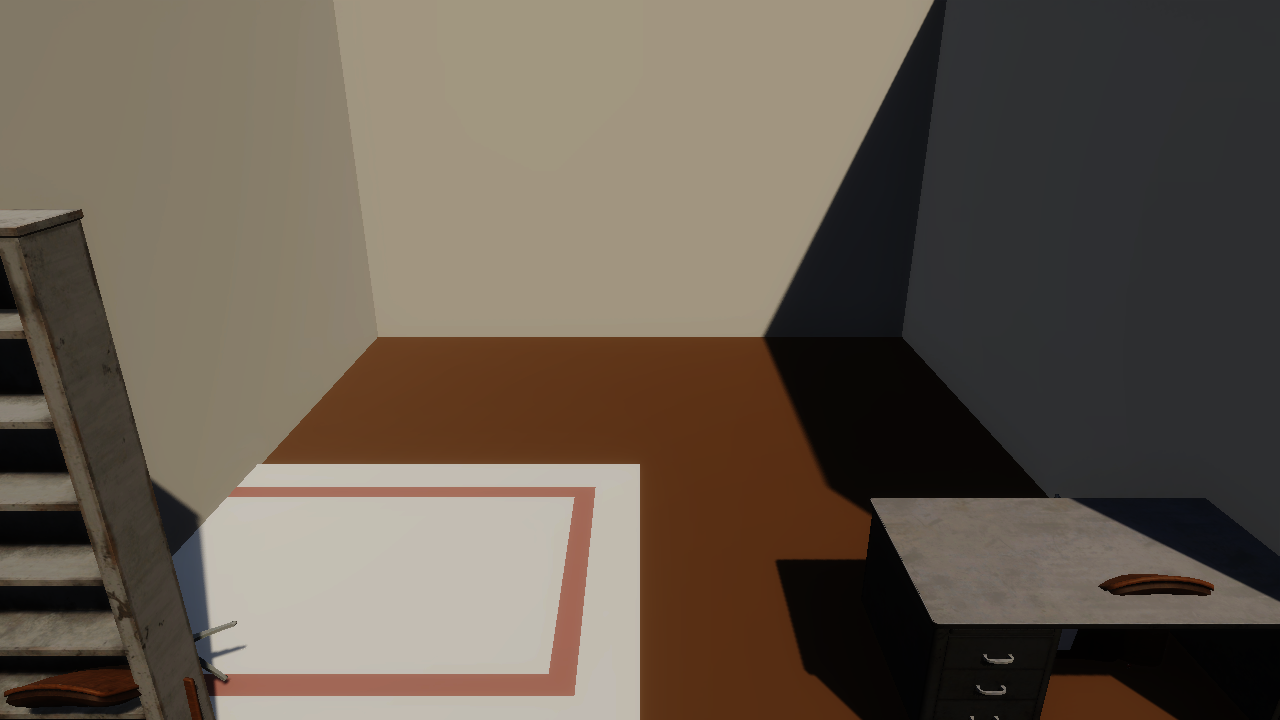
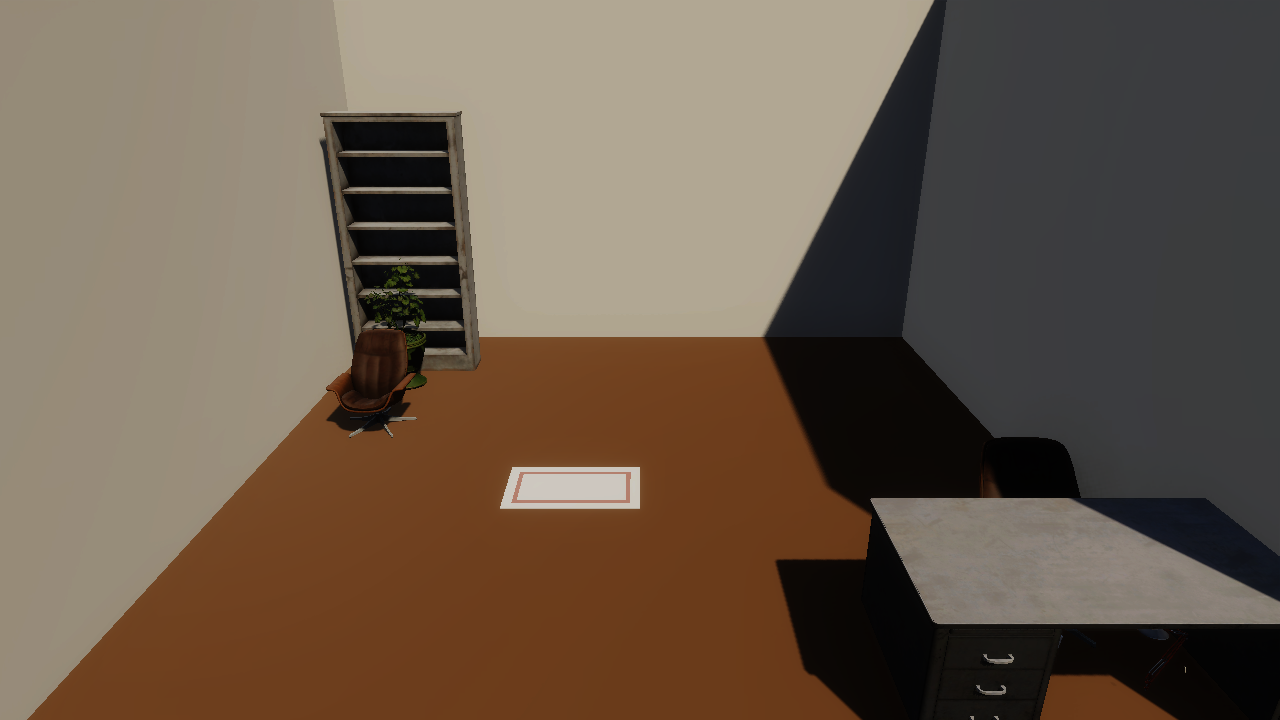
fix(paper03): §4.3 그림 7~12 자산 회전/스케일 정합 — 3R per-asset 보정 + plant 자산 교체 + figure 6매 재측정

diff --git a/SplatForge-UnityClient/Assets/SplatForge/Editor/Paper03/Paper03Runner.cs b/SplatForge-UnityClient/Assets/SplatForge/Editor/Paper03/Paper03Runner.cs
@@ -82,7 +82,7 @@ namespace SplatForge.EditorPaper03
             { "chair_01",       "mid_century_lounge_chair" },
             { "lamp_01",        "desk_lamp_arm_01" },
             { "bookshelf_01",   "Shelf_01" },
-            { "plant_01",       "nettle_plant" },
+            { "plant_01",       "potted_plant_01" },
             { "sofa_01",        "Sofa_01" },
             { "table_01",       "coffee_table_round_01" },
             { "cabinet_01",     "modern_wooden_cabinet" },
@@ -91,22 +91,172 @@ namespace SplatForge.EditorPaper03
         };
 
         // Per-asset 회전 보정 (Euler X,Y,Z degrees, world space).
-        // FBX inspector (Tools/Inspect FBX Bounds) 로 측정한 자연 bounds 결과:
-        //   bookshelf_01: Y=0.26, Z=2.08 → 누워서 임포트. +90° X 로 세움.
-        //   plant_01    : X=1.08, Y=0.22 → 누움. +90° Z 로 세움.
-        //   cabinet_01  : X=2.44, Y=0.68 → 누움. +90° X 로 세움.
-        //   nightstand_01: Y=0.42, Z=0.70 → 가벼운 누움. +90° X 로 세움.
-        //   table_01    : Y=1.30 (Z=0.49) → 세워져 있어 보이지만 round table 의 회전축
-        //                  이 천장을 향한 형태 (typical FBX). +90° X 로 눕혀 정상 테이블.
-        //   bed_01, chair_01, lamp_01, sofa_01, wardrobe_01, monitor_01, tv_01, rug_01, desk_01
-        //   는 자연 Y 축이 정상 — 보정 불필요.
+        // 2026-05-07 (R2 vision diagnostic 후): Alfred Opus 4.7 시각 검토 기반 갱신.
+        //   bookshelf_01: 유지 (90,0,0) — 정상 세워짐.
+        //   plant_01    : 제거 — potted_plant_01 (Y-up 자연, scale 자연 1.4m).
+        //   cabinet_01  : (90,0,0) → (0,0,0) — 90° X 가 오히려 눕힘. 원본 그대로.
+        //   nightstand_01: 유지 (90,0,0) — 시각 정상.
+        //   table_01    : 유지 (90,0,0) — round table 정상.
+        //   bed_01      : 신규 (90,0,0) — 벽처럼 수직 → 눕힘.
+        //   chair_01    : R2 (90,0,0) — R1 -90X 가 거꾸로 뒤집음 → 180° 보정.
+        //   sofa_01     : 신규 (90,0,0) — 등받이 위로 향함 → 세움.
         static readonly Dictionary<string, Vector3> AxisFix = new Dictionary<string, Vector3> {
             { "bookshelf_01",  new Vector3( 90f, 0f, 0f) },
-            { "plant_01",      new Vector3(  0f, 0f, 90f) },
-            { "cabinet_01",    new Vector3( 90f, 0f, 0f) },
             { "nightstand_01", new Vector3( 90f, 0f, 0f) },
             { "table_01",      new Vector3( 90f, 0f, 0f) },
+            { "bed_01",        new Vector3( 90f, 0f, 0f) },
+            { "chair_01",      new Vector3( 90f, 0f, 0f) },
+            { "sofa_01",       new Vector3( 90f, 0f, 0f) },
         };
+
+        // Per-asset 스케일 보정 (R2 진단 후 추가). instantiate 직후, ground-snap 전에 적용.
+        // bounds 측정이 스케일된 결과 사용하도록 순서가 중요하다.
+        //   plant_01 : 제거 — potted_plant_01 자연 높이 1.4m 사용.
+        //   monitor_01: bounds 3.93m → ~0.7m 으로 축소 (0.18배).
+        //   rug_01   : bounds 15.7m → ~3.5m 으로 축소 (0.22배).
+        //   cabinet_01: R2 0.5배 — 너무 넓음 (~4m → ~2m).
+        static readonly Dictionary<string, float> ASSET_SCALES = new Dictionary<string, float> {
+            { "monitor_01", 0.18f },
+            { "rug_01",     0.22f },
+            { "cabinet_01", 0.5f  },
+        };
+
+        // ====================================================================
+        // RunSingleAsset — 자산 격리 렌더 (디버깅용, 2026-04-29 추가)
+        //   목적: 회전·시각 문제를 자산별 1매 PNG 로 진단.
+        //   동일한 룸/조명/HDRP 설정을 유지하되 자산은 origin (0,0,0) 1개만 배치.
+        //   카메라는 자산 영웅샷용으로 더 가까이 (1.5, 1.5, -2.5) FOV 35.
+        // ====================================================================
+        public static void RunSingleAsset()
+        {
+            string assetName = GetArg("-asset");
+            string outputPath = GetArg("-output");
+            if (string.IsNullOrEmpty(assetName) || string.IsNullOrEmpty(outputPath))
+            {
+                Debug.LogError("[Paper03/Iso] missing -asset or -output");
+                EditorApplication.Exit(2);
+                return;
+            }
+            Directory.CreateDirectory(Path.GetDirectoryName(outputPath));
+
+            var scene = EditorSceneManager.NewScene(NewSceneSetup.EmptyScene, NewSceneMode.Single);
+            SetupHdrpVolume();
+
+            // 룸: 4×4 바닥 + 3 벽 (full mode 와 동일).
+            const float ROOM_W = 4f, ROOM_D = 4f, WALL_H = 2.5f, WALL_T = 0.05f;
+
+            var floor = GameObject.CreatePrimitive(PrimitiveType.Cube);
+            floor.name = "Floor";
+            floor.transform.localScale = new Vector3(ROOM_W, 0.05f, ROOM_D);
+            floor.transform.position = new Vector3(0, -0.025f, 0);
+            var floorMat = MakePlainHdrpLit(new Color(0.55f, 0.42f, 0.30f), 0.30f, 0.0f);
+            floor.GetComponent<Renderer>().sharedMaterial = floorMat;
+
+            var wallMat = MakePlainHdrpLit(new Color(0.94f, 0.93f, 0.90f), 0.10f, 0.0f);
+            var backWall = GameObject.CreatePrimitive(PrimitiveType.Cube);
+            backWall.name = "BackWall";
+            backWall.transform.localScale = new Vector3(ROOM_W, WALL_H, WALL_T);
+            backWall.transform.position = new Vector3(0, WALL_H * 0.5f, ROOM_D * 0.5f);
+            backWall.GetComponent<Renderer>().sharedMaterial = wallMat;
+
+            var leftWall = GameObject.CreatePrimitive(PrimitiveType.Cube);
+            leftWall.name = "LeftWall";
+            leftWall.transform.localScale = new Vector3(WALL_T, WALL_H, ROOM_D);
+            leftWall.transform.position = new Vector3(-ROOM_W * 0.5f, WALL_H * 0.5f, 0);
+            leftWall.GetComponent<Renderer>().sharedMaterial = wallMat;
+
+            var rightWall = GameObject.CreatePrimitive(PrimitiveType.Cube);
+            rightWall.name = "RightWall";
+            rightWall.transform.localScale = new Vector3(WALL_T, WALL_H, ROOM_D);
+            rightWall.transform.position = new Vector3(ROOM_W * 0.5f, WALL_H * 0.5f, 0);
+            rightWall.GetComponent<Renderer>().sharedMaterial = wallMat;
+
+            // 조명 — full mode 와 동일 Sun + Fill.
+            var sunGo = new GameObject("Sun");
+            var sun = sunGo.AddComponent<Light>();
+            sun.type = LightType.Directional;
+            sun.color = new Color(1.0f, 0.97f, 0.93f);
+            sunGo.transform.rotation = Quaternion.Euler(50f, -30f, 0f);
+            var hdSun = sunGo.AddComponent<HDAdditionalLightData>();
+            hdSun.intensity = 30000f;
+            hdSun.lightUnit = LightUnit.Lux;
+            hdSun.SetShadowResolution(2048);
+            hdSun.EnableShadows(true);
+
+            var fillGo = new GameObject("Fill");
+            var fill = fillGo.AddComponent<Light>();
+            fill.type = LightType.Directional;
+            fill.color = new Color(0.85f, 0.90f, 1.0f);
+            fillGo.transform.rotation = Quaternion.Euler(30f, 150f, 0f);
+            var hdFill = fillGo.AddComponent<HDAdditionalLightData>();
+            hdFill.intensity = 8000f;
+            hdFill.lightUnit = LightUnit.Lux;
+            hdFill.EnableShadows(false);
+
+            // 카메라 — 영웅샷 (자산 클로즈업).
+            var camGo = new GameObject("Cam");
+            var cam = camGo.AddComponent<Camera>();
+            cam.clearFlags = CameraClearFlags.Skybox;
+            cam.fieldOfView = 35f;
+            cam.nearClipPlane = 0.05f;
+            camGo.transform.position = new Vector3(1.5f, 1.5f, -2.5f);
+            camGo.transform.LookAt(new Vector3(0f, 0.5f, 0f));
+            camGo.AddComponent<HDAdditionalCameraData>();
+
+            // 자산 1개 인스턴스 — origin 배치, FitToBounds 생략 (원본 스케일 유지).
+            string resPath = "MockAssets/" + assetName;
+            var prefab = Resources.Load<GameObject>(resPath);
+            string diag = "";
+            GameObject go = null;
+            if (prefab == null)
+            {
+                Debug.LogError($"[Paper03/Iso] asset not found: {resPath}");
+                // 자산 없으면 fallback cube 로 진행 (PNG 는 생성).
+                go = GameObject.CreatePrimitive(PrimitiveType.Cube);
+                go.transform.localScale = new Vector3(0.6f, 0.6f, 0.6f);
+                var fm = MakePlainHdrpLit(new Color(0.8f, 0.2f, 0.2f), 0.25f, 0.0f);
+                go.GetComponent<Renderer>().sharedMaterial = fm;
+                diag = "asset_missing;";
+            }
+            else
+            {
+                go = UnityEngine.Object.Instantiate(prefab);
+                go.transform.rotation = Quaternion.identity;
+
+                // AxisFix 적용 (full mode 와 동일).
+                if (AxisFix.TryGetValue(assetName, out var fix))
+                {
+                    go.transform.Rotate(fix.x, fix.y, fix.z, Space.World);
+                    diag += "axisfix;";
+                }
+
+                // ASSET_SCALES 적용 — ground-snap 전에 수행해야 bounds 가 정확.
+                if (ASSET_SCALES.TryGetValue(assetName, out var scl))
+                {
+                    go.transform.localScale *= scl;
+                    diag += $"scale:{scl};";
+                }
+
+                ApplyHdrpPbr(go, assetName, ref diag);
+            }
+            go.name = assetName;
+
+            // origin 배치 + ground-snap (Renderer.bounds.min.y = 0).
+            go.transform.position = Vector3.zero;
+            var rb = ComputeRendererBounds(go);
+            float dy = -rb.min.y;
+            go.transform.position += new Vector3(0f, dy, 0f);
+
+            Physics.SyncTransforms();
+
+            // 디버그 정보 — bounds 측정 후 Console 에 dump.
+            var rbAfter = ComputeRendererBounds(go);
+            Debug.Log($"[Paper03/Iso] asset={assetName} pos=({go.transform.position.x:F3},{go.transform.position.y:F3},{go.transform.position.z:F3}) bounds_size=({rbAfter.size.x:F3},{rbAfter.size.y:F3},{rbAfter.size.z:F3}) bounds_min=({rbAfter.min.x:F3},{rbAfter.min.y:F3},{rbAfter.min.z:F3}) diag={diag}");
+
+            CaptureCamera(cam, outputPath, 1280, 720);
+            Debug.Log($"[Paper03/Iso] DONE asset={assetName} png={outputPath}");
+            EditorApplication.Exit(0);
+        }
 
         public static void Run()
         {
@@ -243,6 +393,14 @@ namespace SplatForge.EditorPaper03
                             go.transform.Rotate(fix.x, fix.y, fix.z, Space.World);
                             diag += "override_axis;";
                             FitToBounds(go, size);
+                        }
+
+                        // ASSET_SCALES — FitToBounds 후 적용 (FitToBounds 가 균일 스케일을
+                        // 강제하므로 추가 보정으로 의도된 비율 부여). ground-snap 전에 수행.
+                        if (!string.IsNullOrEmpty(slug) && ASSET_SCALES.TryGetValue(slug, out var scl))
+                        {
+                            go.transform.localScale *= scl;
+                            diag += $"scale:{scl};";
                         }
 
                         ApplyHdrpPbr(go, slug, ref diag);
